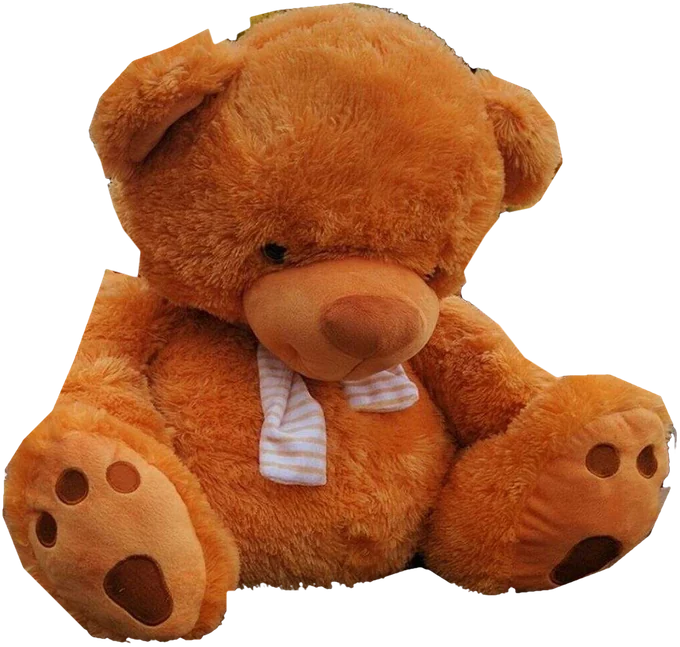
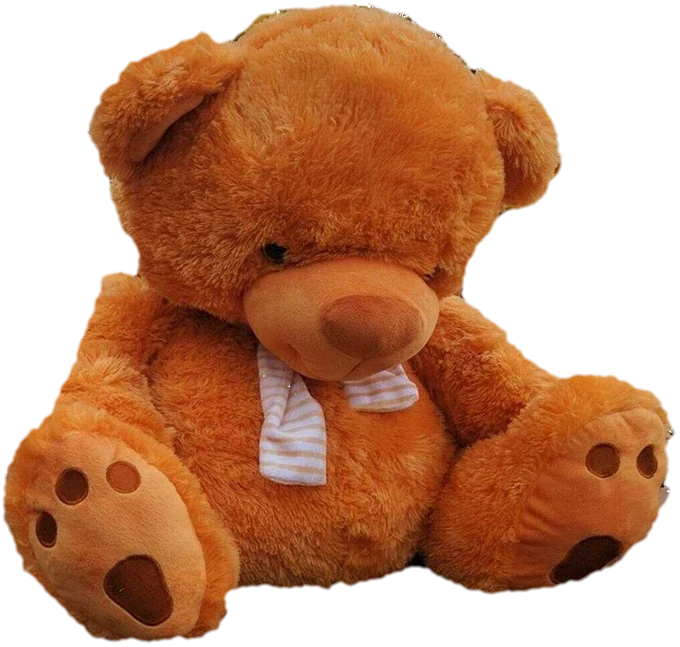
Dungeon v2.23.0
New smooth walk for Booster, calmer behaviour, softer teddy edge, shelf titles removed.

diff --git a/assets/js/library-cat.js b/assets/js/library-cat.js
@@ -63,12 +63,12 @@
       else if (me.loop) { if (me.ti >= me.to + 1) me.ti = me.from + (me.ti - me.to - 1); }
       else if (me.ti >= me.to) { me.ti = me.to; me.playing = false; var r = me.resolve; me.resolve = null; if (r) r(); }
     }
-    if (me.xf) { me.xf.a -= dt / .28; if (me.xf.a <= 0) me.xf = null; }
+    if (me.xf) { me.xf.a -= dt / .1; if (me.xf.a <= 0) me.xf = null; }
     me.draw();
   };
   Cat.prototype.draw = function () {
     var me = this, c = me.ctx, n = me.m.clips[me.clip].length, i0 = clamp(Math.floor(me.ti), 0, n - 1), b = 0, i1 = i0;
-    if (me.playing) { i1 = i0 + 1; if (me.loop && !me.ping) { if (i1 > me.to) i1 = me.from; } else if (i1 > me.to) i1 = i0; b = i1 === i0 ? 0 : smooth((me.ti - Math.floor(me.ti) - .6) / .4); }
+    if (me.playing && me.clip !== 'walk') { i1 = i0 + 1; /* the walk has 20 frames of its own, close enough that no fade is needed between them */ if (me.loop && !me.ping) { if (i1 > me.to) i1 = me.from; } else if (i1 > me.to) i1 = i0; b = i1 === i0 ? 0 : smooth((me.ti - Math.floor(me.ti) - .6) / .4); }
     c.setTransform(1, 0, 0, 1, 0, 0); c.clearRect(0, 0, me.canvas.width, me.canvas.height);
     function put(f, a) { if (a <= .003) return; c.save(); c.globalAlpha = a * me.opacity; c.setTransform(me.res, 0, 0, me.res, 0, 0); c.translate(me.cw / 2, me.ch - 3); if (me.dir > 0) c.scale(-1, 1);
       c.drawImage(me.img, f[0], f[1], f[2], f[3], -f[4] * me.k, -(f[5] + 1) * me.k, f[2] * me.k, f[3] * me.k); c.restore(); }
@@ -143,8 +143,8 @@
     async function sleepFor(s) { await P_(cat.play('lie', { fps: 2 })); cat.play('sleep', { fps: 1.5, ping: true }); await W(s); }
 
     /* walking: her speed comes from the frames, so her paws stay on the board */
-    function walkSpeed() { return walkStep * (cat.walkFps || 7) * cat.k; }
-    function A_walk(x) { return new Promise(function (res, rej) { pend.push(rej); cat.tx = x; cat.walkFps = 7; cat.play('walk', { fps: cat.walkFps, loop: true }); cat.arrive = function () { cat.hold('idle', 0); res(); }; }); }
+    function walkSpeed() { return walkStep * (cat.walkFps || 12) * cat.k; }
+    function A_walk(x) { return new Promise(function (res, rej) { pend.push(rej); cat.tx = x; cat.walkFps = 12; cat.play('walk', { fps: cat.walkFps, loop: true }); cat.arrive = function () { cat.hold('idle', 0); res(); }; }); }
     async function wander() { var p = P[cp]; await A_walk(rr(p.x0, p.x1)); fxNow(); }
     /* to the next bookcase along: walk to the edge, jump to the near end of the next top */
     async function hop(d) { lock++; try { await hop_(d); } finally { lock--; } }
@@ -183,13 +183,14 @@
         cat.dir = d; await followWalk(); return true; }
       cat.dir = dx < 0 ? -1 : 1; if (dy < -1.1 * len) await lookUp(1.2); else await look(1.4); return true;
     }
-    function followWalk() { return new Promise(function (res, rej) { pend.push(rej); follow = true; var q = ptLocal(), p = P[cp]; cat.tx = clamp(q.x, p.x0, p.x1); cat.walkFps = 7; cat.play('walk', { fps: 7, loop: true }); cat.arrive = function () { follow = false; cat.hold('idle', 0); fxNow(); res(); }; }); }
+    function followWalk() { return new Promise(function (res, rej) { pend.push(rej); follow = true; var q = ptLocal(), p = P[cp]; cat.tx = clamp(q.x, p.x0, p.x1); cat.walkFps = 12; cat.play('walk', { fps: 12, loop: true }); cat.arrive = function () { follow = false; cat.hold('idle', 0); fxNow(); res(); }; }); }
 
     async function pick() {
       var r = Math.random();
-      if (r < .24) await wander(); else if (r < .34) await look(rr(3, 5)); else if (r < .43) await groom(2); else if (r < .51) await stretch();
-      else if (r < .60) await sit(rr(2.4, 4.5)); else if (r < .68) await lookUp(rr(1.5, 2.6)); else if (r < .74) { cat.hold('idle', 0); await idle(); await W(rr(2, 3.5)); }
-      else if (r < .88) { var d = Math.random() < .5 ? -1 : 1; if (!P[cp + d]) d = -d; await hop(d); } else if (spot) await nap(); else await sit(2);
+      /* mostly resting: sitting, looking, grooming; a walk or a jump to the next bookcase only now and then */
+      if (r < .10) await wander(); else if (r < .24) await look(rr(3, 5)); else if (r < .40) await groom(2); else if (r < .47) await stretch();
+      else if (r < .64) await sit(rr(4, 8)); else if (r < .72) await lookUp(rr(1.5, 2.6)); else if (r < .80) { cat.hold('idle', 0); await idle(); await W(rr(4, 8)); }
+      else if (r < .88) { var d = Math.random() < .5 ? -1 : 1; if (!P[cp + d]) d = -d; await hop(d); } else if (spot) await nap(); else await sit(3);
     }
     /* phone: one bookcase at a time, no walking */
     async function moveTo(i, onSpot) { layer.style.transition = 'opacity .5s'; layer.style.opacity = 0; await W(.55); napping = !!onSpot; cp = i; fx = rr(.15, .85); cat.dir = Math.random() < .5 ? -1 : 1; cat.hold('sit_side', 0); place(); layer.style.opacity = 1; await W(.45); }
@@ -203,7 +204,7 @@
         try {
           if (!auto) { await W(.3); continue; }
           if (phone) { if (Math.random() < .55 || napping) await moveTo(Math.floor(Math.random() * P.length), false); await phonePick(); }
-          else { if (!(await followStep())) { await pick(); } cat.hold('idle', 0); await W(rr(.2, .7)); }
+          else { if (!(await followStep())) { await pick(); } cat.hold('idle', 0); await W(rr(1.5, 3.5)); }
         } catch (e) { if (e !== 'cancel') { console.error(e); await new Promise(function (r) { setTimeout(r, 1000); }); } }
       }
     }

diff --git a/assets/css/library.css b/assets/css/library.css
@@ -156,7 +156,7 @@ html.lib-zoomed, html.lib-zoomed body { overflow-x: auto; }
 .lb-box { position: absolute; left: 0; top: 0; }
 .lb-plane { position: absolute; left: 0; top: 0; width: 100%; height: 100%; pointer-events: none; }
 .lb-plane > * { pointer-events: auto; }
-.lb-cap { z-index: 3; font-family: var(--mono); font-size: 24px; line-height: 34px; text-align: center; color: var(--graphite); }
+.lb-cap { visibility: hidden; /* the shelf titles are gone; the space stays so nothing moves */ z-index: 3; font-family: var(--mono); font-size: 24px; line-height: 34px; text-align: center; color: var(--graphite); }
 /* A darker, straighter bookcase */
 .lb-dark { --lb-wood: #4A382F; --lb-wood-l: #5C473B; --lb-wood-d: #241A16; --lb-edge: #120C09; }
 /* Shelf 4: a tall oak case. Shelf 5: the ladder, with oak rails and white shelves */

diff --git a/CHANGELOG.md b/CHANGELOG.md
@@ -1,5 +1,14 @@
 # Changelog
 
+## 2.23.0
+
+- **Booster's walk is new, and smooth.** Six painted poses with her back legs actually stepping (the far one swinging back while the near one comes forward) were run through a frame interpolator to make 20 frames, played at 12 a second with no fade between them, so no two cats on top of each other. She walks slowly, like a stroll. The old 8-frame walk is gone. Where the loop would smear (the lifted paw going back to the start) it is cut, so the back legs jump a little once per step. Her walking speed is worked out from the new frames, so her paws stay on the board.
+- **Fewer cats-on-top-of-cats.** The fade between one action and the next (sit to walk, say) is now a tenth of a second.
+- **She moves less.** She mostly sits, looks about, grooms and rests for longer, and walks or jumps to the next bookcase only now and then, with longer pauses between things.
+- **The teddy's edge is softer.** The cut-out has a rounded, furry edge now with the colour fringe from the photo removed, and no green specks.
+- **The shelf titles ("Shelf 1" and so on) are gone** from under the bookcases, on the first view and on an opened one.
+- **For editing:** the walk pictures are in `extras/booster/source/walk/` (01.png to 20.png, on white). `npm run booster` cuts them out like the other poses.
+
 ## 2.22.3
 
 - **A set picture that fails to load no longer pulls a 2 MB photo.** When the small Brickset picture did not load (it failed for the page speed test on 9 Oct), the page fell back to the set's own photo, a Rebrickable original of 2 to 9 MB, into a 50 px slot. On a slow phone connection that one image delayed everything. Now it tries the medium Brickset picture, then an Amazon picture if the item has one, and otherwise shows the set number. It never uses an original of unknown size. (A set's own page still falls back to its original if both Brickset pictures fail; that is its main picture.)
